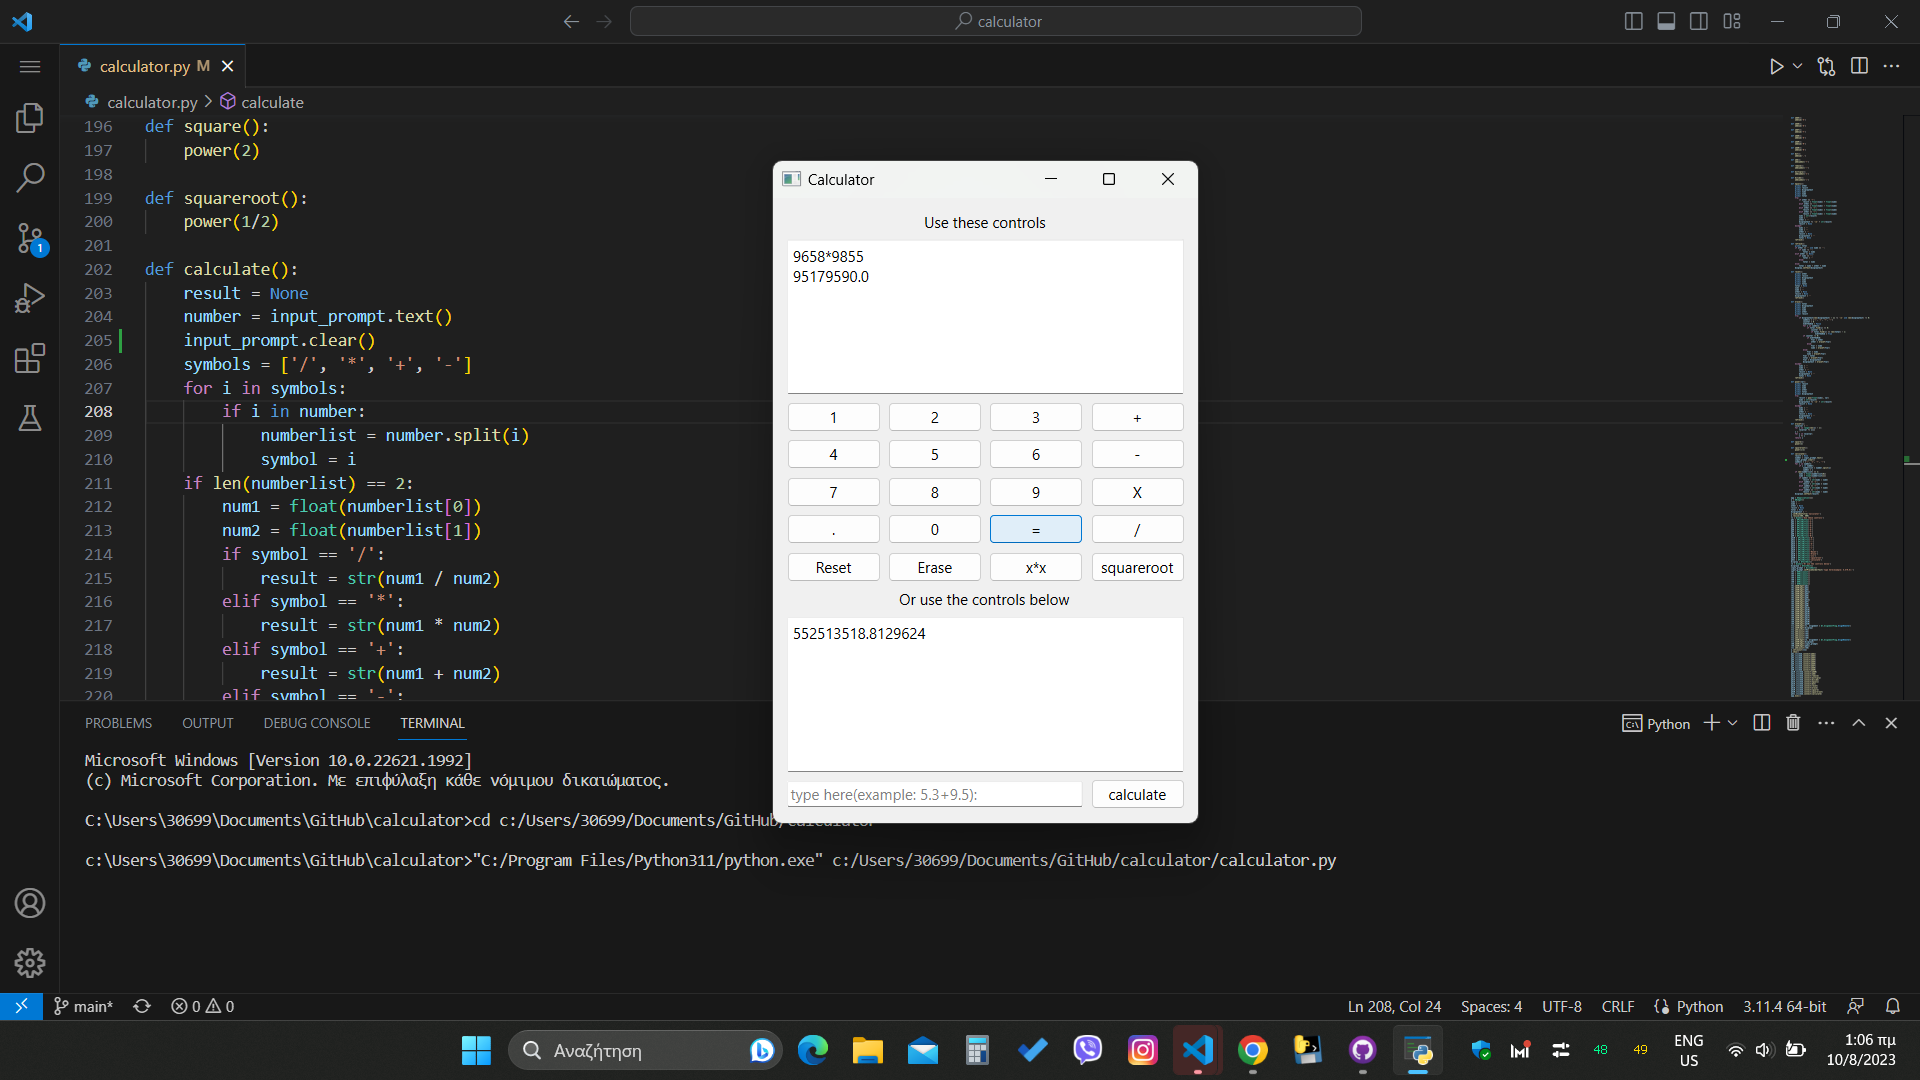
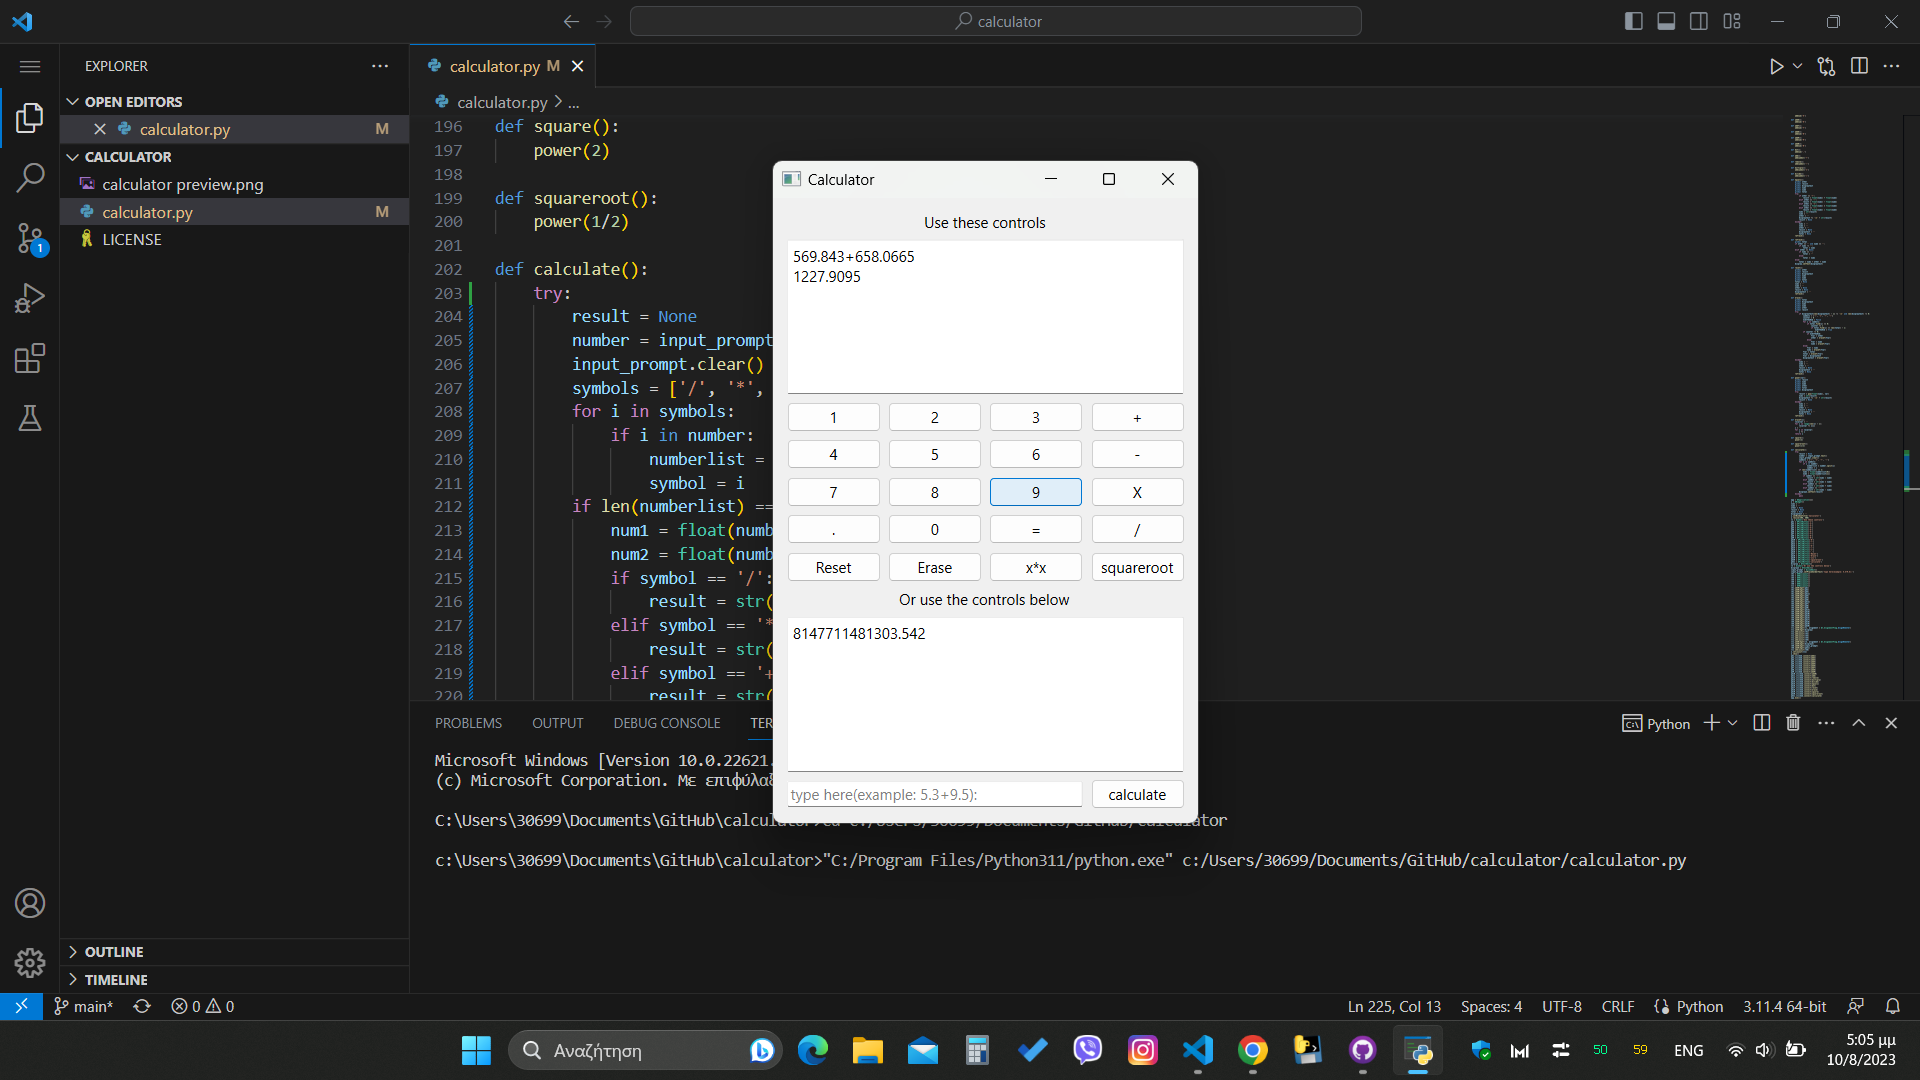
bug fixes

diff --git a/calculator.py b/calculator.py
@@ -200,26 +200,29 @@ def squareroot():
     power(1/2)
 
 def calculate():
-    result = None
-    number = input_prompt.text()
-    input_prompt.clear()
-    symbols = ['/', '*', '+', '-']
-    for i in symbols:
-        if i in number:
-            numberlist = number.split(i)
-            symbol = i
-    if len(numberlist) == 2:
-        num1 = float(numberlist[0])
-        num2 = float(numberlist[1])
-        if symbol == '/':
-            result = str(num1 / num2)
-        elif symbol == '*':
-            result = str(num1 * num2)
-        elif symbol == '+':
-            result = str(num1 + num2)
-        elif symbol == '-':
-            result = str(num1 - num2)
-    display2.setText(result)
+    try:
+        result = None
+        number = input_prompt.text()
+        input_prompt.clear()
+        symbols = ['/', '*', '+', '-']
+        for i in symbols:
+            if i in number:
+                numberlist = number.split(i)
+                symbol = i
+        if len(numberlist) == 2:
+            num1 = float(numberlist[0])
+            num2 = float(numberlist[1])
+            if symbol == '/':
+                result = str(num1 / num2)
+            elif symbol == '*':
+                result = str(num1 * num2)
+            elif symbol == '+':
+                result = str(num1 + num2)
+            elif symbol == '-':
+                result = str(num1 - num2)
+        display2.setText(result)
+    except:
+        pass
 
 app = QApplication([])
 w = QWidget()
